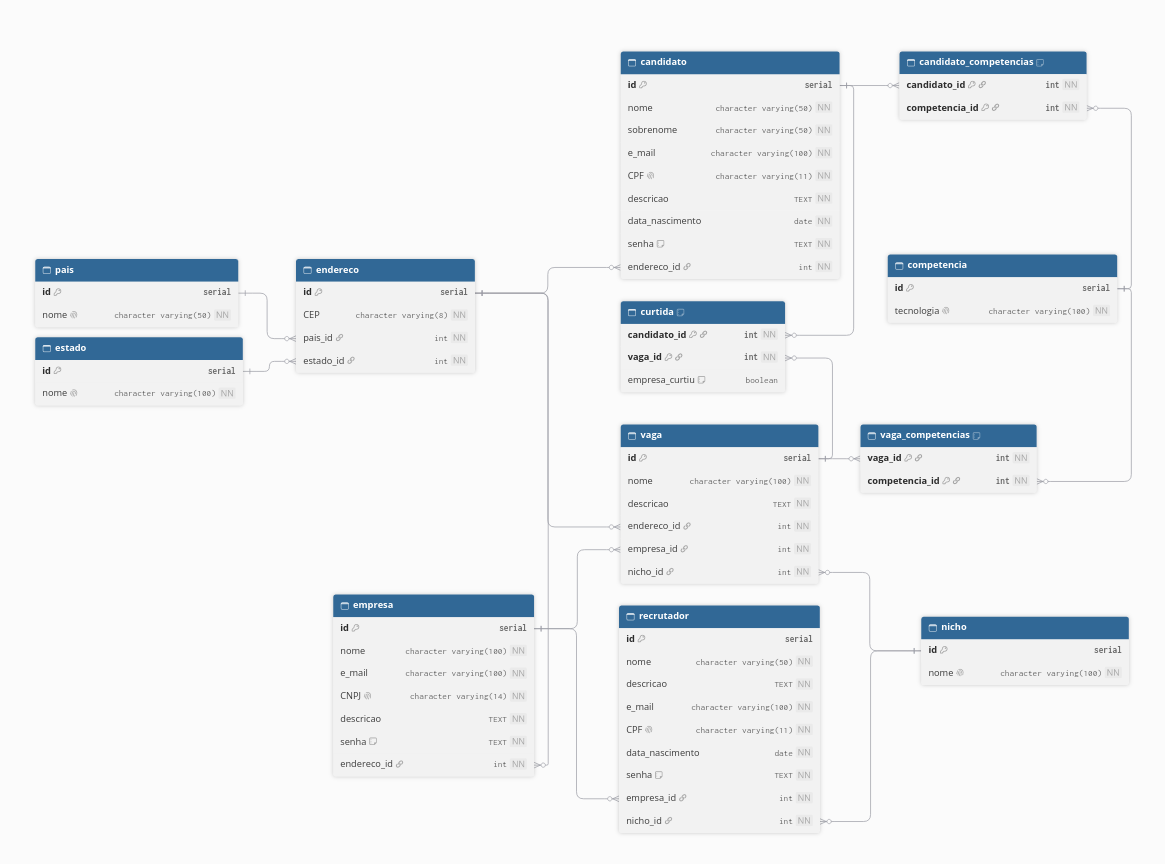
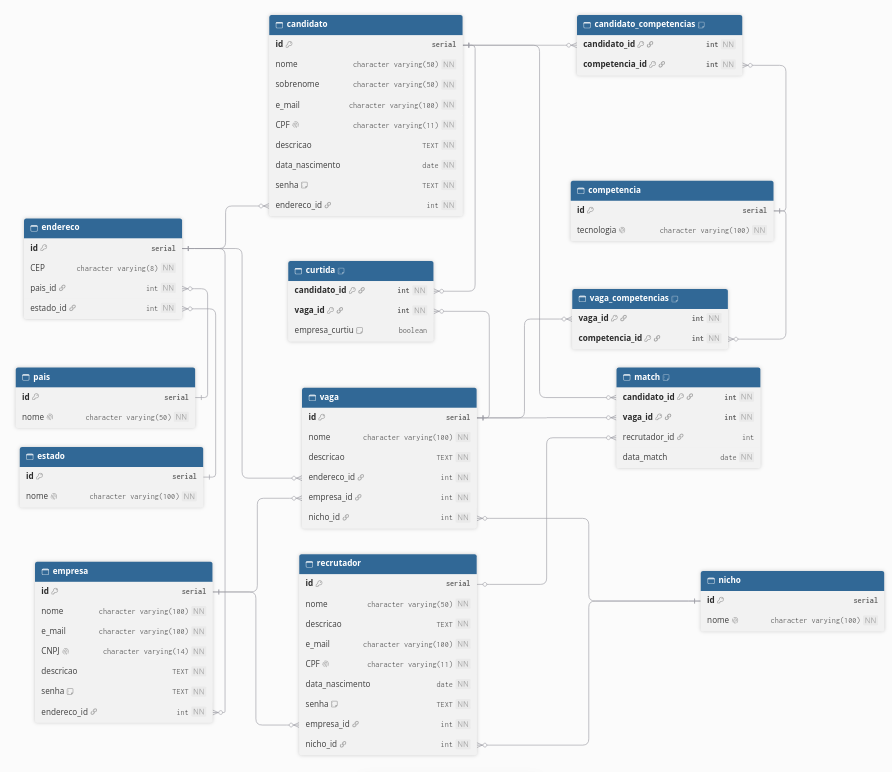
feat: mudancas no banco para matching

diff --git a/README.md b/README.md
@@ -5,7 +5,7 @@ Esté é uma aplicação que mistura o Linkedin com o Tinder, para facilitar o p
 
 ### Para executar:
     1. Crie um banco de dados PostgreSQL nomeado 'linketinder'
-    2. Utilize o script de criação em banco_de_dados/entrega.sql para criar as tabelas e popular o banco.
+    2. Utilize o script de criação em banco_de_dados/schema_com_populacao.sql para criar as tabelas e popular o banco.
     3. Execute na raiz do projeto o seguinte comando:
 
         ./gradlew run -q --console=plain
@@ -39,38 +39,27 @@ Esté é uma aplicação que mistura o Linkedin com o Tinder, para facilitar o p
          
 ## BANCO DE DADOS:
 
-Para juntar o novo banco de dados com o aplicativo, tive que re-estruturar algumas (várias) coisas tanto no código quanto no modelo do banco. Como exemplo, movi "competencias desejadas" da classe Empresa para uma nova classe "Vaga".<br>
-Antes dessa junção, tentei também refatorar o projeto com a arquitetura MVCS (minha primeira vez usando ela).<br>
-Uma ferramenta que serviu grande auxílio foi o próprio Intellij, que permitiu uma conexão com o banco para fazer queries de forma rápida e adicionar IntelliSense a strings SQL.
-
 ![DER](banco_de_dados/image.png)
 
-<br>
-<br>
-<br>
 
-### Informações pertinentes:
+## Sistema de curtidas:
 
-1. As classes sugeridas estão em src/main/groovy/org/linketinder/classes
-2. src/main/groovy/org/linketinder/dados contém "Dados.groovy", que armazena os usuários e "Random.groovy", que pode ser usado para criar usuários aleatóriamente
-3. src/main/groovy/org/linketinder/terminal contém a classe que serve como interface
-4. Backend feito com groovy e build tool gradle
-5. Frontend feito com Typescript + HTML, com o uso da biblioteca [chart.js](https://www.chartjs.org/)
-6. Frontend ainda é completamente independente do backend.
-7. Banco de dados feito com PostgreSQL
-8. Modelo DER feito com [dbdiagram](https://dbdiagram.io/home)
+Funciona por meio da tabela "curtida" no banco de dados, onde é feita uma chave primaria composta pelo ID do candidato e o ID da vaga (já que o candidato é aquele quem inicia o processo de match).
+Quando a empresa dona da vaga quer fazer o match, é trocado o valor de "empresa_curtiu" na tabela de falso para verdadeiro.
 
-    ### Sistema de curtidas:
 
-    Funciona por meio da tabela "curtida" no banco de dados, onde é feita uma chave primaria composta pelo ID do candidato e o ID da vaga (já que o candidato é aquele quem inicia o processo de match).
-    Quando a empresa dona da vaga quer fazer o match, é trocado o valor de "empresa_curtiu" na tabela de falso para verdadeiro.
+## Índice de afinidade:
 
-    
-    ### Índice de afinidade:
-    
-    O frontend do projeto conta com um sistema de índice de afinidade, tanto para candidatos quanto para empresas.
+O frontend do projeto conta com um sistema de índice de afinidade, tanto para candidatos quanto para empresas.
 
-    Como candidato, ao acessar a listagem de vagas, o sistema conta quantas das competencias desejadas da vaga o candidato tem para mostrar um índice de afinidade.
+Como candidato, ao acessar a listagem de vagas, o sistema conta quantas das competencias desejadas da vaga o candidato tem para mostrar um índice de afinidade.
 
-    Como empresa, ao acessar a listagem de candidatos, o sistema cria um mapa simples de todas as ocorrências de competências desejadas de suas vagas para mostrar uma "afinidade global" com o candidato. (Um candidato que sabe groovy terá afinidade maior em uma empresa que possui 3 vagas que buscam por groovy do que uma empresa que possui apenas 1 vaga que busca por groovy)
+Como empresa, ao acessar a listagem de candidatos, o sistema cria um mapa simples de todas as ocorrências de competências desejadas de suas vagas para mostrar uma "afinidade global" com o candidato. (Um candidato que sabe groovy terá afinidade maior em uma empresa que possui 3 vagas que buscam por groovy do que uma empresa que possui apenas 1 vaga que busca por groovy)
 
+
+## Informações pertinentes:
+
+1. Frontend feito com Typescript + HTML, com o uso da biblioteca [chart.js](https://www.chartjs.org/)
+2. Frontend ainda é completamente independente do backend.
+3. Banco de dados feito com PostgreSQL
+4. Modelo DER feito com [dbdiagram](https://dbdiagram.io/home)

diff --git a/AGENTS.md b/AGENTS.md
@@ -32,7 +32,7 @@ The application is still in development. Differences between source code, SQL, d
 - `frontend/scripts/model/`, `service/`, `persistencia/`, `view/`: frontend models, workflows, local persistence, and DOM-facing views.
 - `frontend/view/`: static HTML pages and stylesheet.
 - `frontend/build/`: compiled frontend output. Edit `frontend/scripts/`, then build; do not treat generated output as the source of truth.
-- `banco_de_dados/schema.sql`: database schema; `entrega.sql`: schema plus sample data; `buscas.sql`: example queries.
+- `banco_de_dados/schema.sql`: database schema; `schema_com_populacao.sql`: schema plus sample data.
 - Root `build/` and `bin/` contain generated/compiled output, not primary source.
 - `CHANGELOG.md`: project history file at the root; it contains the changelog and can be useful for tracking changes.
 - `skills/`: folder at root containing project skills that the AI model can reference.
@@ -43,7 +43,7 @@ The application is still in development. Differences between source code, SQL, d
 
 1. Database creation, schema changes, and data changes are run by the user, not by the assistant.
 2. When database work is needed, provide the SQL in a dedicated `.sql` file and the exact commands to inspect/apply it in a companion instruction file. The user reviews and executes those commands. Never connect to a database or run commands that create, alter, populate, update, or delete database data.
-3. For a new local database, the user can create a PostgreSQL database named `linketinder` and apply `banco_de_dados/entrega.sql` themselves.
+3. For a new local database, the user can create a PostgreSQL database named `linketinder` and apply `banco_de_dados/schema_com_populacao.sql` themselves.
 4. Check the connection settings in `src/main/groovy/org/linketinder/DAO/conexoes/ProvedorPostgres.groovy`; connection settings are currently defined in source.
 5. From the repository root, run `./gradlew run -q --console=plain`.
 6. Run backend tests with `./gradlew test`; compile production sources with `./gradlew classes`. Do not run these commands with side effects that mutate the database.

diff --git a/docs/specs/recrutador/plan.md b/docs/specs/recrutador/plan.md
@@ -29,7 +29,7 @@ Resolve and approve the specification decisions before implementation begins. Sc
 
 ### 0. [ x ] Prepare schema changes and migrate existing vacancies
 - **What:** Author SQL to create `nicho` and `recrutador`, add the required `nicho_id` column and foreign key to the existing `vaga` table, seed the unique `geral` niche, and backfill every existing vacancy's `vaga.nicho_id` to `geral` without changing other vacancy data. Update schema/seed snapshots. Provide exact inspection and application commands; never execute database commands.
-- **Files:** `banco_de_dados/schema.sql`, `banco_de_dados/entrega.sql`, a standalone migration under `banco_de_dados/migrations/`, and a companion runbook.
+- **Files:** `banco_de_dados/schema.sql`, `../../../banco_de_dados/schema_com_populacao.sql`, a standalone migration under `banco_de_dados/migrations/`, and a companion runbook.
 - **Done check:** Review SQL and runbook statically for consistency and safe ordering. The user applies the migration to a scratch database and verifies `vaga.nicho_id` exists and references `nicho.id`, vacancy IDs/count and other fields are unchanged, all pre-existing vacancies reference `geral`, and constraints reject missing/unknown niches and duplicate niche names. Do not start Phase 1 until the user reports successful verification.
 
 ## Implementation Phases

diff --git a/entregas/matching.md b/entregas/matching.md
@@ -1,0 +1,6 @@
+# Parte 1: BANCO DE DADOS
+
+ - Para expandir a lógica de matching, criei uma nova tabela "match" que contem o id do candidato, vaga, data do match e o id do recrutador (caso o match tenha sido por um recrutador).
+ - Uma entrada de match desaparece se o candidato ou vaga associada forem deletados. Caso o recrutador seja deletado, a entrada é atualizada e o campo recrutador_id é posto como nulo.
+ - A lógica proposta é que quando o evento "match" ocorrer (empresa curtiu de volta o candidato), além da entrada na tabela curtida ser atualizada (empresa_curtiu), uma nova entrada na tabela match é criada.
+

diff --git a/banco_de_dados/migrations/README.md b/banco_de_dados/migrations/README.md
@@ -13,7 +13,7 @@ psql -d linketinder -f banco_de_dados/migrations/001_add_nicho_e_recrutador.sql
 ```bash
 createdb linketinder_scratch
 psql -d linketinder_scratch -f banco_de_dados/schema.sql
-psql -d linketinder_scratch -f banco_de_dados/entrega.sql
+psql -d linketinder_scratch -f banco_de_dados/schema_com_populacao.sql
 ```
 
 ## 3) Inspecionar a migração e validar o resultado
